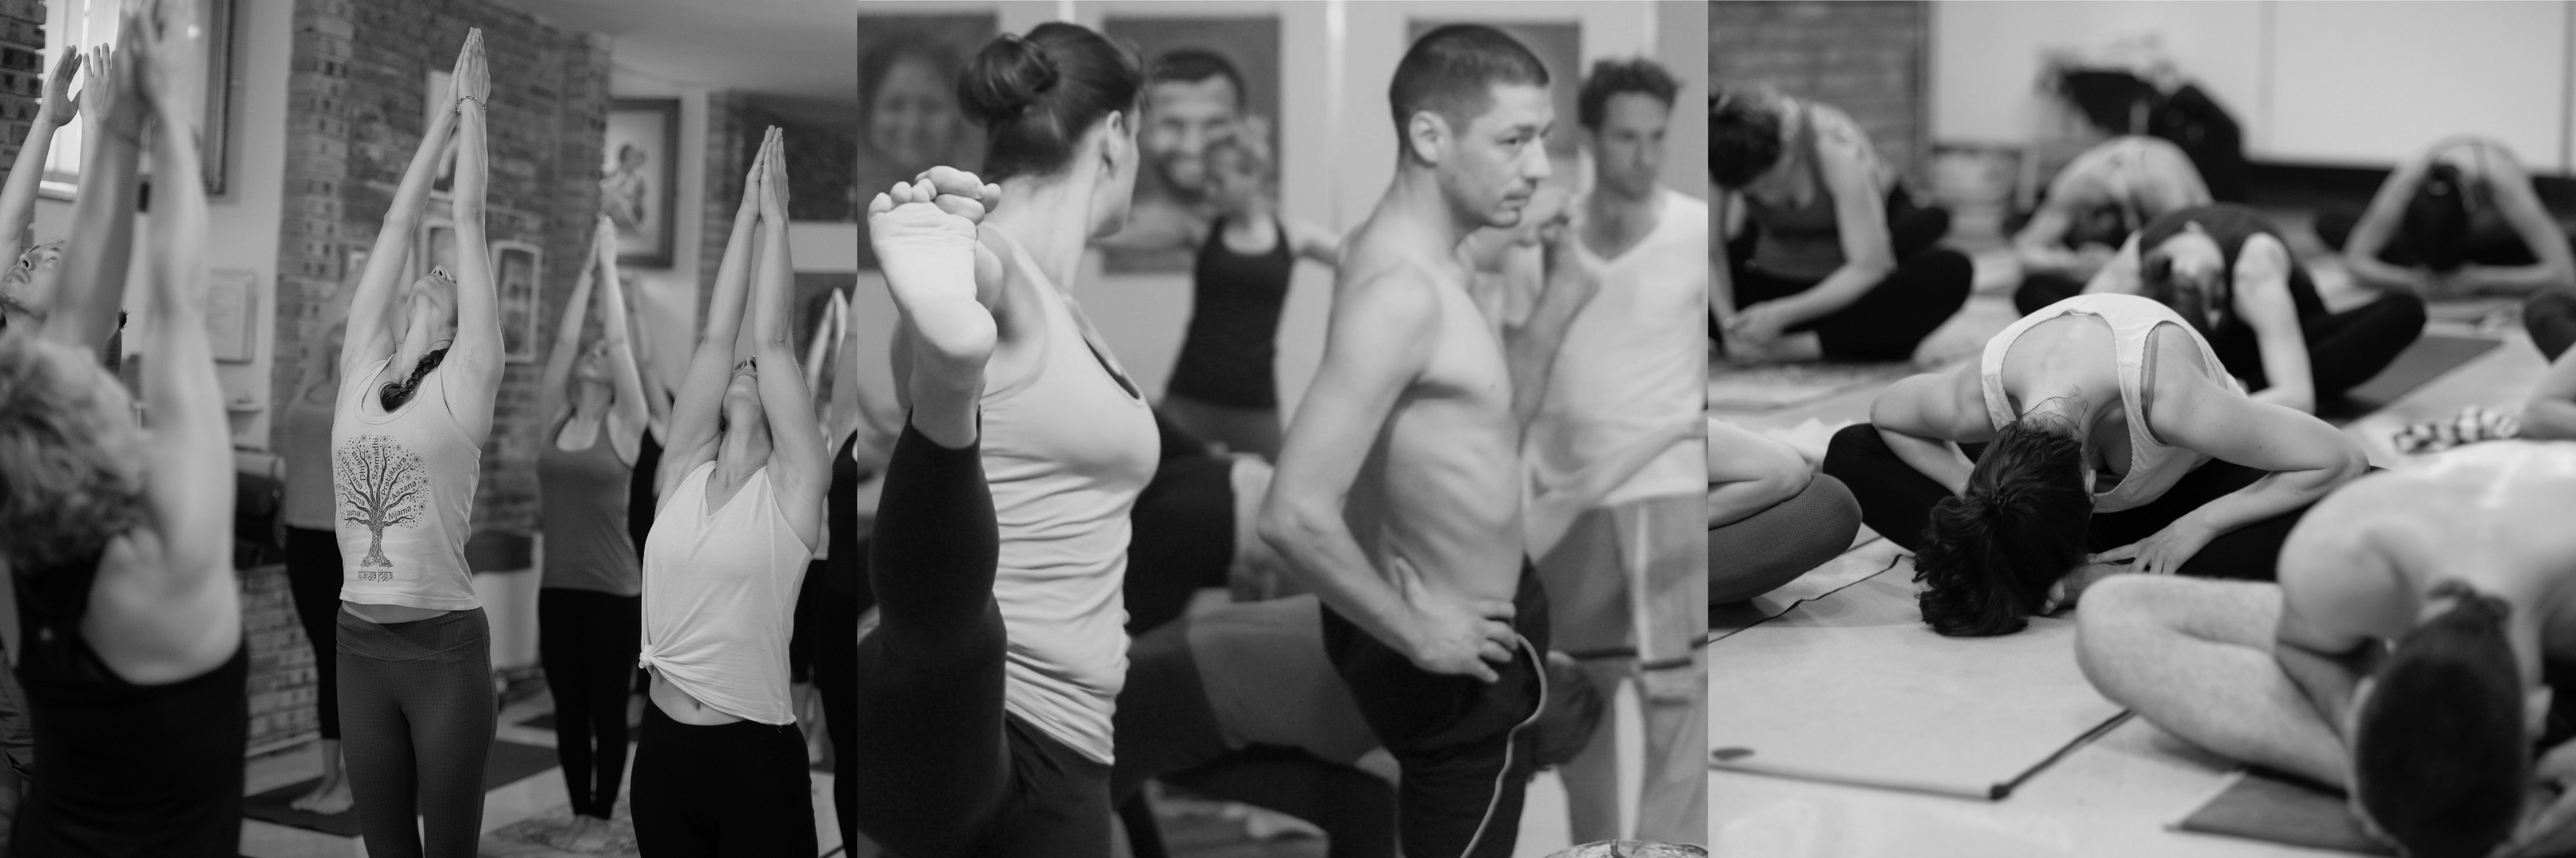
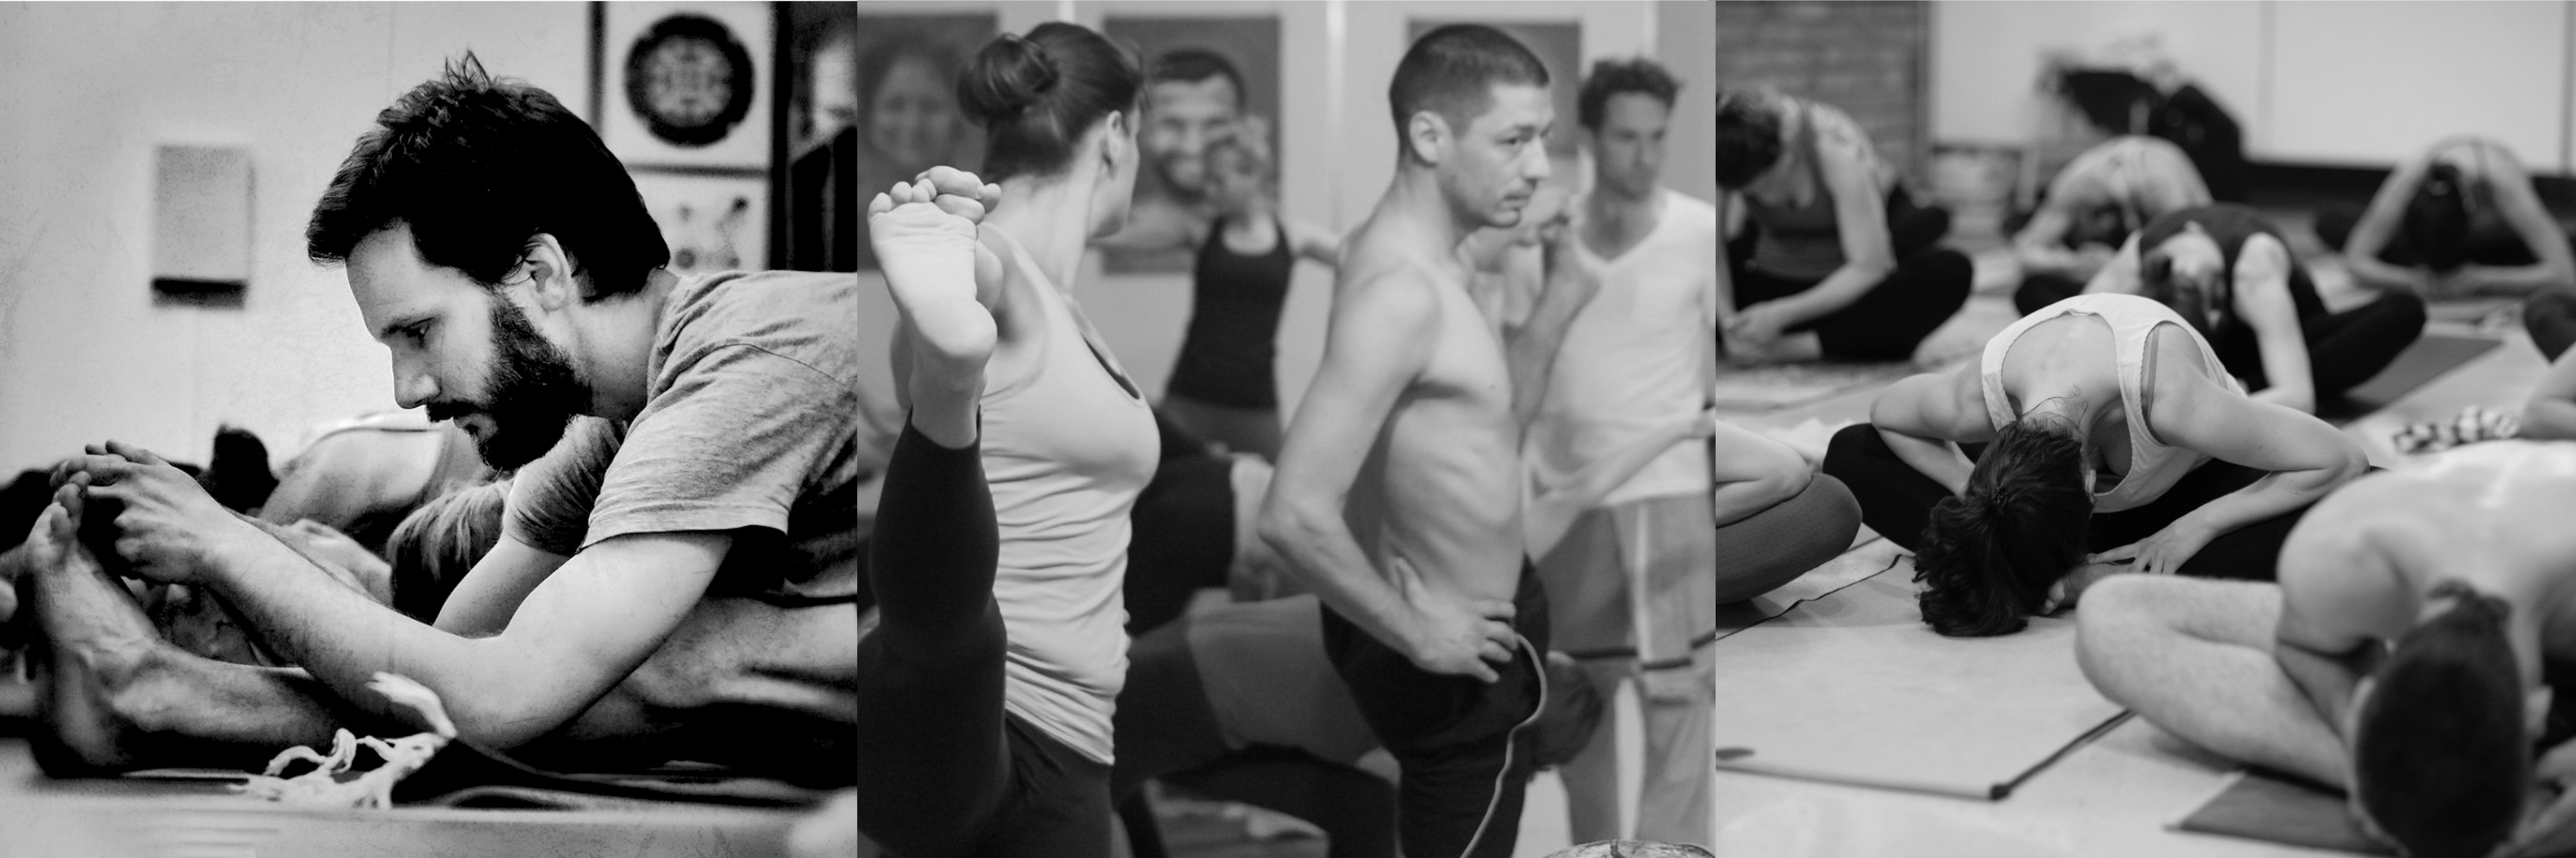
mysore kurzus update

Changed region(s): [[0.0, 0.0, 0.3429, 1.0]]

diff --git a/src/pages/astanga-mysore-kurzus.js b/src/pages/astanga-mysore-kurzus.js
@@ -10,7 +10,7 @@ export default function AstangaMysoreKurzus() {
     <Layout>
       <Seo title="ASTANGA MYSORE KURZUS" />
       <div className="page-hero-container">
-        <div className="row">
+        <div className="row tight--desktop--container">
           <h1 className="page-hero-title">ASTANGA MYSORE-KURZUS</h1>
           <StaticImage
             className="container-fluid page-hero-image page-big-image"
@@ -35,7 +35,7 @@ export default function AstangaMysoreKurzus() {
         </div>
       </div>
 
-      <div className="mysore-kurzus--wrapper">
+      <div className="mysore-kurzus--wrapper tight--desktop--container">
         <div className="mt-40px mb-20px">
           <h3 className="clr-brand-orange">
             <strong>
@@ -47,7 +47,7 @@ export default function AstangaMysoreKurzus() {
             </strong>
           </h3>
         </div>
-        <div className="row">
+        <div className="row mb-20px">
           <p>
             Az astanga vinyásza jógában az ászanákat tradicionálisan Mysore-
             (ejtsd: májszor) stílusban oktatják. A módszer ötvözi a csoportos
@@ -59,6 +59,30 @@ export default function AstangaMysoreKurzus() {
             (pl. kezdő gyakorlók), vagy ha valaki hosszabb időt tölt a teremben
             (pl. haladó gyakorlók) ugyanazon az órán.
           </p>
+        </div>
+        <div className="row mb-20px">
+          <div className="col-12-xs">
+            <StaticImage
+              className="page-mobil-image"
+              src="../images/akt1.jpg"
+              layout="fullWidth"
+              loading="eager"
+              quality={95}
+              formats={["AUTO", "WEBP", "AVIF"]}
+              alt="Astanga kezdő tanfolyam"
+              placeholder="blurred"
+            />
+            <StaticImage
+              className="page-big-image"
+              src="../images/akt_big.jpg"
+              layout="fullWidth"
+              loading="eager"
+              quality={95}
+              formats={["AUTO", "WEBP", "AVIF"]}
+              alt="Astanga kezdő tanfolyam"
+              placeholder="blurred"
+            />
+          </div>
         </div>
         <div className="row mt-20px">
           <h3 className="clr-brand-orange">A kurzusról</h3>
